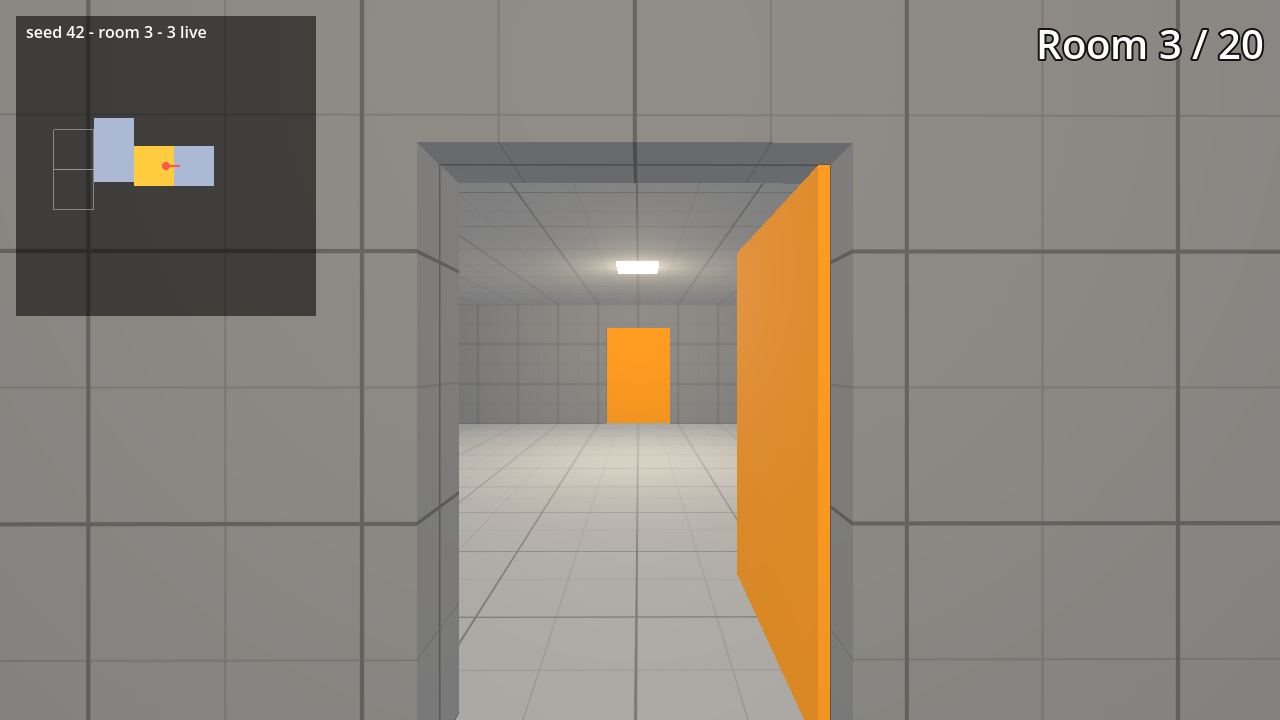
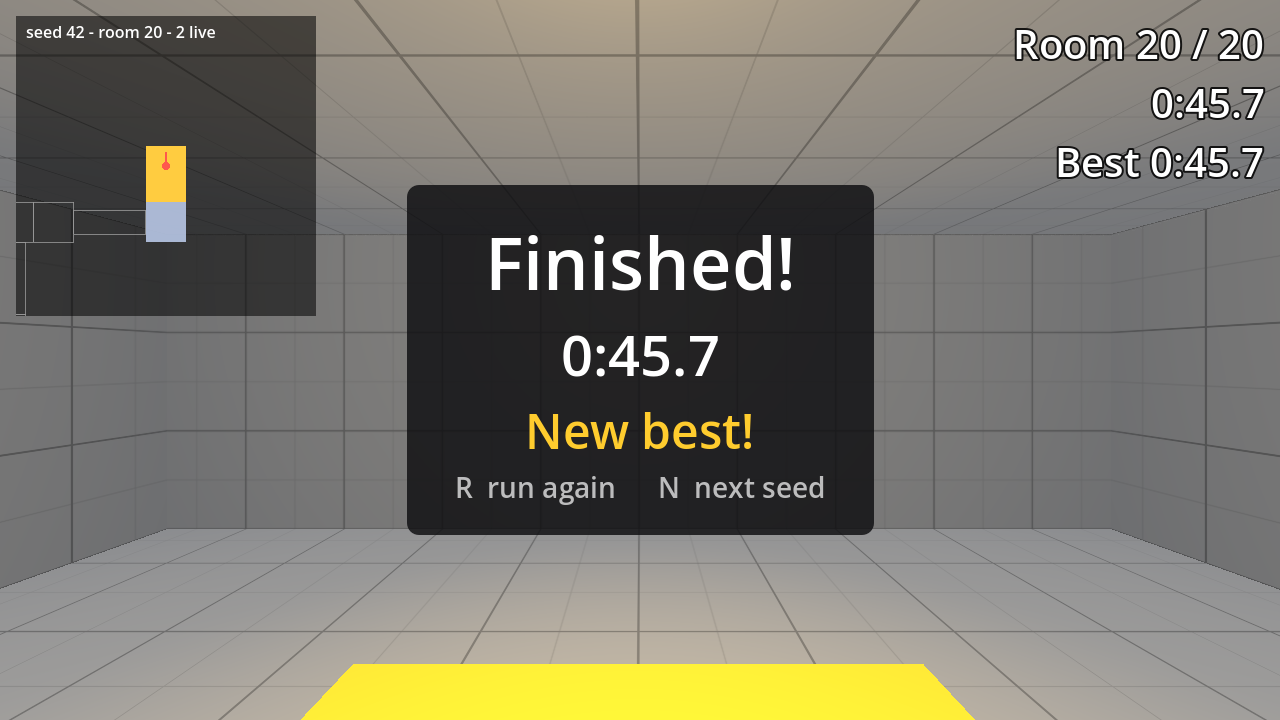
Tutorial 03: A Run to Finish in Godot 4 (godot-03)

diff --git a/README.md b/README.md
@@ -14,7 +14,7 @@ that step. The project's main scene is the final step.
 
 | Folder | Part of the video |
 |---|---|
-| `steps/step_00_start` | Starting point (the final state of the previous tutorial) |
+| `steps/step_00_start` | Starting point (the final state of tutorial 01) |
 | `steps/step_01_room_counter` | Step 1 - A room counter |
 | `steps/step_02_goal_room` | Step 2 - The goal room |
 | `steps/step_03_game_states` | Step 3 - Game states |
